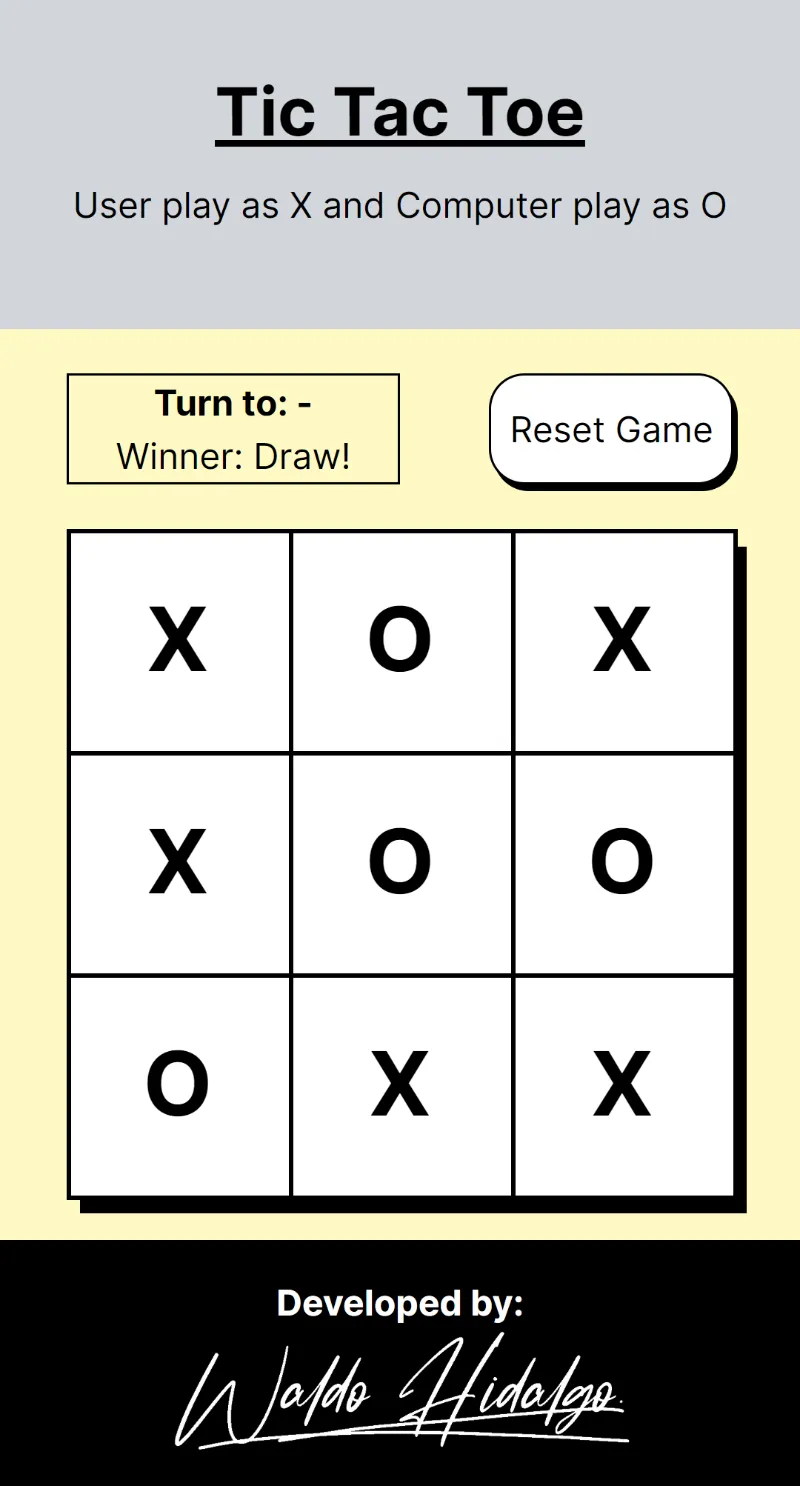
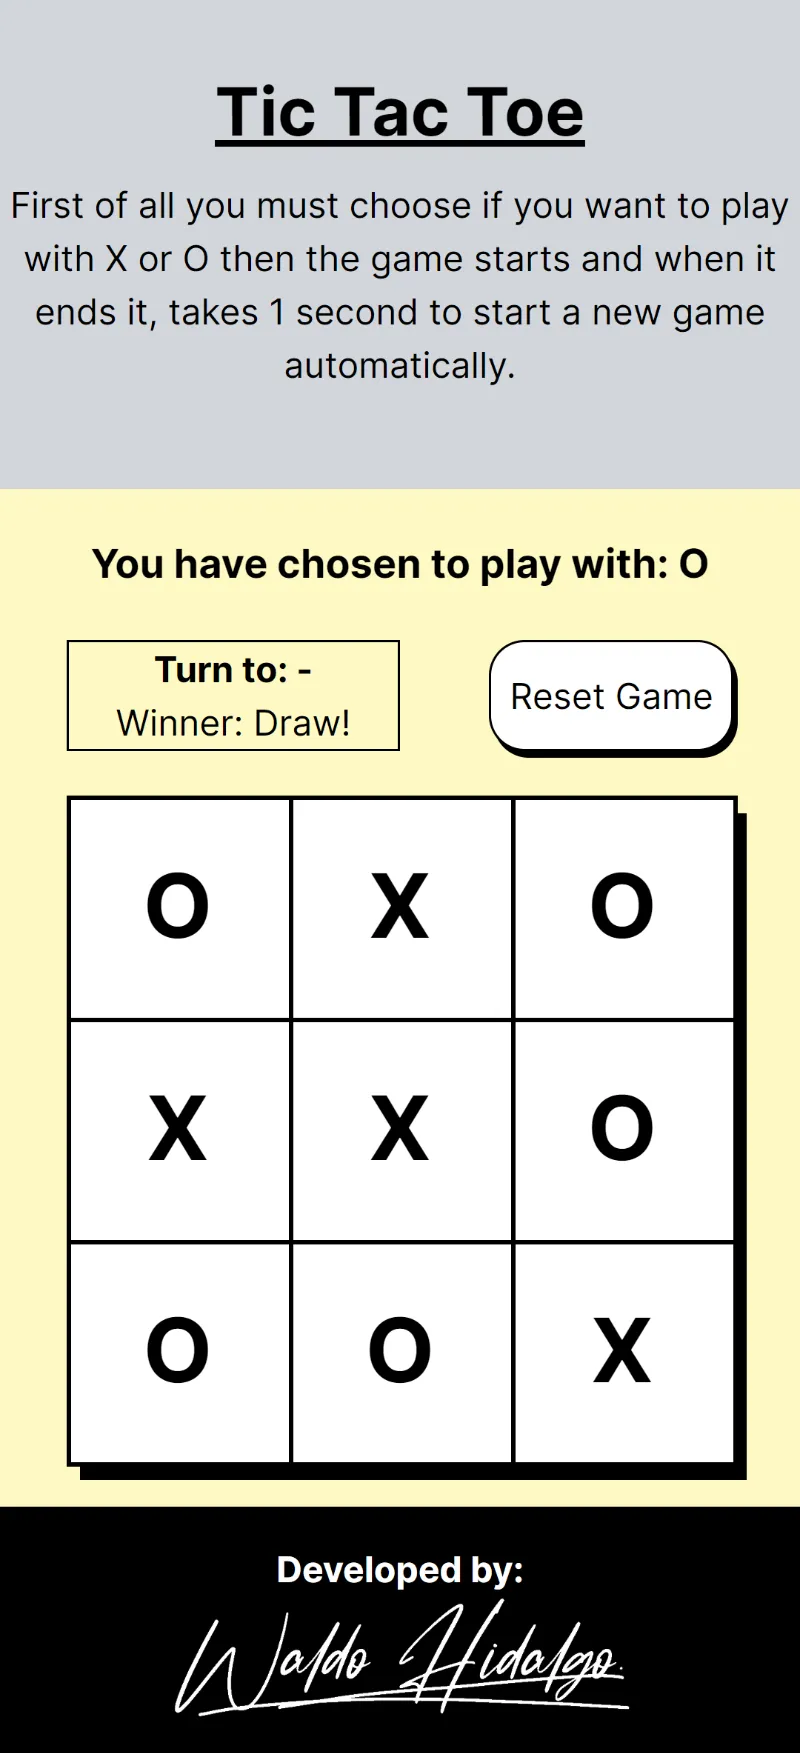
agrego funcionalidades:
seleccionador de X o O
reseteo de juego automatico manteniendo seleccion

Changed region(s): [[0.0, 0.031, 1.0, 0.4643], [0.0, 0.4953, 1.0, 0.9906]]

diff --git a/src/app/components/Tablero.js b/src/app/components/Tablero.js
@@ -1,6 +1,7 @@
 "use client";
 import { useState, useEffect } from "react";
 import BestPlay from "../utils/bestPlay";
+import Selector from "./Selector";
 const bestPlayFinder = new BestPlay();
 
 export default function Tablero() {
@@ -9,16 +10,18 @@ export default function Tablero() {
     ["", "", ""],
     ["", "", ""],
   ]);
-  const [turn, setTurn] = useState("X");
+  const [turn, setTurn] = useState(null);
+  const [turnSelected, setTurnSelected] = useState(null);
   const [win, setWin] = useState(null);
   const [combinacionGanadora, setCombinacionGanadora] = useState([]);
 
   useEffect(() => {
-    if (turn === "O" && win === null) {
+    const turnoOpuesto = turnSelected === "X" ? "O" : "X";
+    if (turn === turnoOpuesto && win === null) {
       async function getBestMove() {
         try {
           const [iPosition, jPosition] =
-            await bestPlayFinder.getBestMoveTimeSpacing(tablero, 500);
+            await bestPlayFinder.getBestMoveTimeSpacing(tablero, turn, 500);
           const newTablero = [...tablero];
           newTablero[iPosition][jPosition] = turn;
           setTablero(newTablero);
@@ -30,7 +33,7 @@ export default function Tablero() {
             );
             return;
           }
-          setTurn("X");
+          setTurn(turn === "X" ? "O" : "X");
         } catch (error) {
           console.log(error);
         }
@@ -38,10 +41,10 @@ export default function Tablero() {
 
       getBestMove();
     }
-  }, [turn, tablero, win]);
+  }, [turn, tablero, win, turnSelected]);
 
   function handleClick(i, j) {
-    if (turn === "X" && tablero[i][j] === "" && win === null) {
+    if (turn === turnSelected && tablero[i][j] === "" && win === null) {
       const newTablero = [...tablero];
       newTablero[i][j] = turn;
       setTablero(newTablero);
@@ -51,8 +54,21 @@ export default function Tablero() {
         setCombinacionGanadora(bestPlayFinder.getCoordinatesWinner(newTablero));
         return;
       }
-      setTurn("O");
+      setTurn(turn === "X" ? "O" : "X");
     }
+  }
+
+  if (win !== null) {
+    setTimeout(() => {
+      setTablero([
+        ["", "", ""],
+        ["", "", ""],
+        ["", "", ""],
+      ]);
+      setWin(null);
+      setTurn(turnSelected);
+      setCombinacionGanadora([]);
+    }, 1000);
   }
 
   function handleReset() {
@@ -62,53 +78,65 @@ export default function Tablero() {
       ["", "", ""],
     ]);
     setWin(null);
-    setTurn("X");
+    setTurn(null);
     setCombinacionGanadora([]);
   }
   return (
-    <div className="py-5 overflow-auto">
-      <div className="flex flex-wrap justify-between w-[300px] mx-auto">
-        <div className="w-[150px] border border-black flex flex-col items-center justify-center">
-          <p className="text-center font-bold">
-            Turn to: {win ? "-" : turn === "X" ? "X" : "O (💻)"}
-          </p>
-          {win && (
-            <p className="text-center">
-              Winner: {win === "draw" ? "Draw!" : win}
-            </p>
-          )}
-        </div>
-        <button
-          className="inline-block  p-2 rounded-2xl bg-white border border-black shadow-[2px_3px_0px_0px_black] hover:bg-blue-500 hover:text-white"
-          onClick={handleReset}
-        >
-          Reset Game
-        </button>
-      </div>
+    <>
+      {turn === "X" || turn === "O" ? (
+        <div className="py-5 overflow-auto">
+          <h2 className="text-center font-bold text-lg">
+            You have chosen to play with: {turnSelected}
+          </h2>
+          <div className="flex flex-wrap justify-between w-[300px] mx-auto mt-5">
+            <div className="w-[150px] border border-black flex flex-col items-center justify-center">
+              <p className="text-center font-bold">
+                Turn to: {win ? "-" : turn === "X" ? "X" : "O"}
+              </p>
+              {win && (
+                <p className="text-center">
+                  Winner: {win === "draw" ? "Draw!" : win}
+                </p>
+              )}
+            </div>
+            <button
+              className="inline-block  p-2 rounded-2xl bg-white border border-black shadow-[2px_3px_0px_0px_black] hover:bg-blue-500 hover:text-white"
+              onClick={handleReset}
+            >
+              Reset Game
+            </button>
+          </div>
 
-      <div className="mt-5 w-fit mx-auto shadow-[6px_8px_0px_0px_black]">
-        {tablero.map((row, i) => (
-          <div key={i} className="grid grid-cols-3 w-[300px] mx-auto bg-white ">
-            {row.map((cell, j) => (
+          <div className="mt-5 w-fit mx-auto shadow-[6px_8px_0px_0px_black]">
+            {tablero.map((row, i) => (
               <div
-                key={j}
-                className={`w-[100px] aspect-square border-cell cursor-pointer flex justify-center items-center text-[40px] font-bold ${
-                  combinacionGanadora.length > 0
-                    ? combinacionGanadora
-                        .map((e) => e.join(","))
-                        .includes(i + "," + j)
-                      ? "bg-green-500"
-                      : ""
-                    : ""
-                }`}
-                onClick={() => handleClick(i, j)}
+                key={i}
+                className="grid grid-cols-3 w-[300px] mx-auto bg-white "
               >
-                {cell}
+                {row.map((cell, j) => (
+                  <div
+                    key={j}
+                    className={`w-[100px] aspect-square border-cell cursor-pointer flex justify-center items-center text-[40px] font-bold ${
+                      combinacionGanadora.length > 0
+                        ? combinacionGanadora
+                            .map((e) => e.join(","))
+                            .includes(i + "," + j)
+                          ? "bg-green-500"
+                          : ""
+                        : ""
+                    }`}
+                    onClick={() => handleClick(i, j)}
+                  >
+                    {cell}
+                  </div>
+                ))}
               </div>
             ))}
           </div>
-        ))}
-      </div>
-    </div>
+        </div>
+      ) : (
+        <Selector setTurn={setTurn} setTurnSelected={setTurnSelected} />
+      )}
+    </>
   );
 }

diff --git a/src/app/utils/bestPlay.js b/src/app/utils/bestPlay.js
@@ -93,31 +93,54 @@ export default class BestPlay {
     }
   }
 
-  findBestMove(board) {
-    let bestScore = -Infinity;
-    let iMove = -1;
-    let jMove = -1;
-    for (let i = 0; i < board.length; i++) {
-      for (let j = 0; j < board.length; j++) {
-        if (board[i][j] === "") {
-          board[i][j] = "O";
-          const score = this.minimax(board, 0, false);
-          board[i][j] = "";
-          if (score > bestScore) {
-            bestScore = score;
-            iMove = i;
-            jMove = j;
+  findBestMove(board, player) {
+    if (player === "O") {
+      let bestScore = -Infinity;
+      let iMove = -1;
+      let jMove = -1;
+      for (let i = 0; i < board.length; i++) {
+        for (let j = 0; j < board.length; j++) {
+          if (board[i][j] === "") {
+            board[i][j] = "O";
+            const score = this.minimax(board, 0, false);
+            board[i][j] = "";
+            if (score > bestScore) {
+              bestScore = score;
+              iMove = i;
+              jMove = j;
+            }
           }
         }
       }
+      return [iMove, jMove];
     }
-    return [iMove, jMove];
+
+    if (player === "X") {
+      let bestScore = Infinity;
+      let iMove = -1;
+      let jMove = -1;
+      for (let i = 0; i < board.length; i++) {
+        for (let j = 0; j < board.length; j++) {
+          if (board[i][j] === "") {
+            board[i][j] = "X";
+            const score = this.minimax(board, 0, true);
+            board[i][j] = "";
+            if (score < bestScore) {
+              bestScore = score;
+              iMove = i;
+              jMove = j;
+            }
+          }
+        }
+      }
+      return [iMove, jMove];
+    }
   }
 
-  getBestMoveTimeSpacing(matrix, time) {
+  getBestMoveTimeSpacing(matrix, player, time) {
     return new Promise((resolve) => {
       setTimeout(() => {
-        resolve(this.findBestMove(matrix));
+        resolve(this.findBestMove(matrix, player));
       }, time);
     });
   }

diff --git a/src/app/components/Selector.js b/src/app/components/Selector.js
@@ -1,0 +1,31 @@
+export default function Selector({ setTurn, setTurnSelected }) {
+  return (
+    <>
+      <div className="py-10">
+        <h2 className="text-center font-bold text-lg underline">
+          Choose if you want to be X or O:
+        </h2>
+        <div className="flex justify-between mt-5 max-w-[200px] mx-auto flex-wrap">
+          <button
+            className="border-2 border-white px-5 py-2 rounded-md bg-black text-white shadow-[2px_3px_0px_0px_black]"
+            onClick={() => {
+              setTurn("X");
+              setTurnSelected("X");
+            }}
+          >
+            X
+          </button>
+          <button
+            className="border-2 border-black px-5 py-2 rounded-md bg-white text-black shadow-[2px_3px_0px_0px_black]"
+            onClick={() => {
+              setTurn("O");
+              setTurnSelected("O");
+            }}
+          >
+            O
+          </button>
+        </div>
+      </div>
+    </>
+  );
+}

diff --git a/src/app/page.js b/src/app/page.js
@@ -1,4 +1,3 @@
-import Image from "next/image";
 import Tablero from "./components/Tablero";
 export default function Home() {
   return (
@@ -7,8 +6,10 @@ export default function Home() {
         <h1 className="text-3xl font-bold underline text-center">
           Tic Tac Toe
         </h1>
-        <p className="text-center py-3">
-          User play as X and Computer play as O
+        <p className="text-center py-3 max-w-[400px] mx-auto">
+          First of all you must choose if you want to play with X or O then the
+          game starts and when it ends it, takes 1 second to start a new game
+          automatically.
         </p>
       </header>
       <main className="bg-yellow-100">

diff --git a/README.md b/README.md
@@ -10,14 +10,22 @@ El proyecto implementa un algoritmo **Minimax** para averiguar la mejor posició
 
 ## Screenshots
 
-### 1-Estado Inicial
+### 1-UI inicial
 
-![Estado Inicial Screenshot](./screenshots/home.webp)
+![UI inicial screenshot](./screenshots/home.webp)
 
-### 2-Estado existencia de Ganador
+### 2-Selector de X para jugar
 
-![Estado existencia de Ganador Screenshot](./screenshots/winner.webp)
+![Selector de X para jugar screenshot](./screenshots/game_X.webp)
 
-### 3-Estado Empate
+### 3-Selector de O para jugar
 
-![Estado Empate Screenshot](./screenshots/draw.webp)
+![Selector de O para jugar screenshot](./screenshots/game_O.webp)
+
+### 4-Draw
+
+![Draw screenshot](./screenshots/draw.webp)
+
+### 5-Winner
+
+![Winner screenshot](./screenshots/winner.webp)
